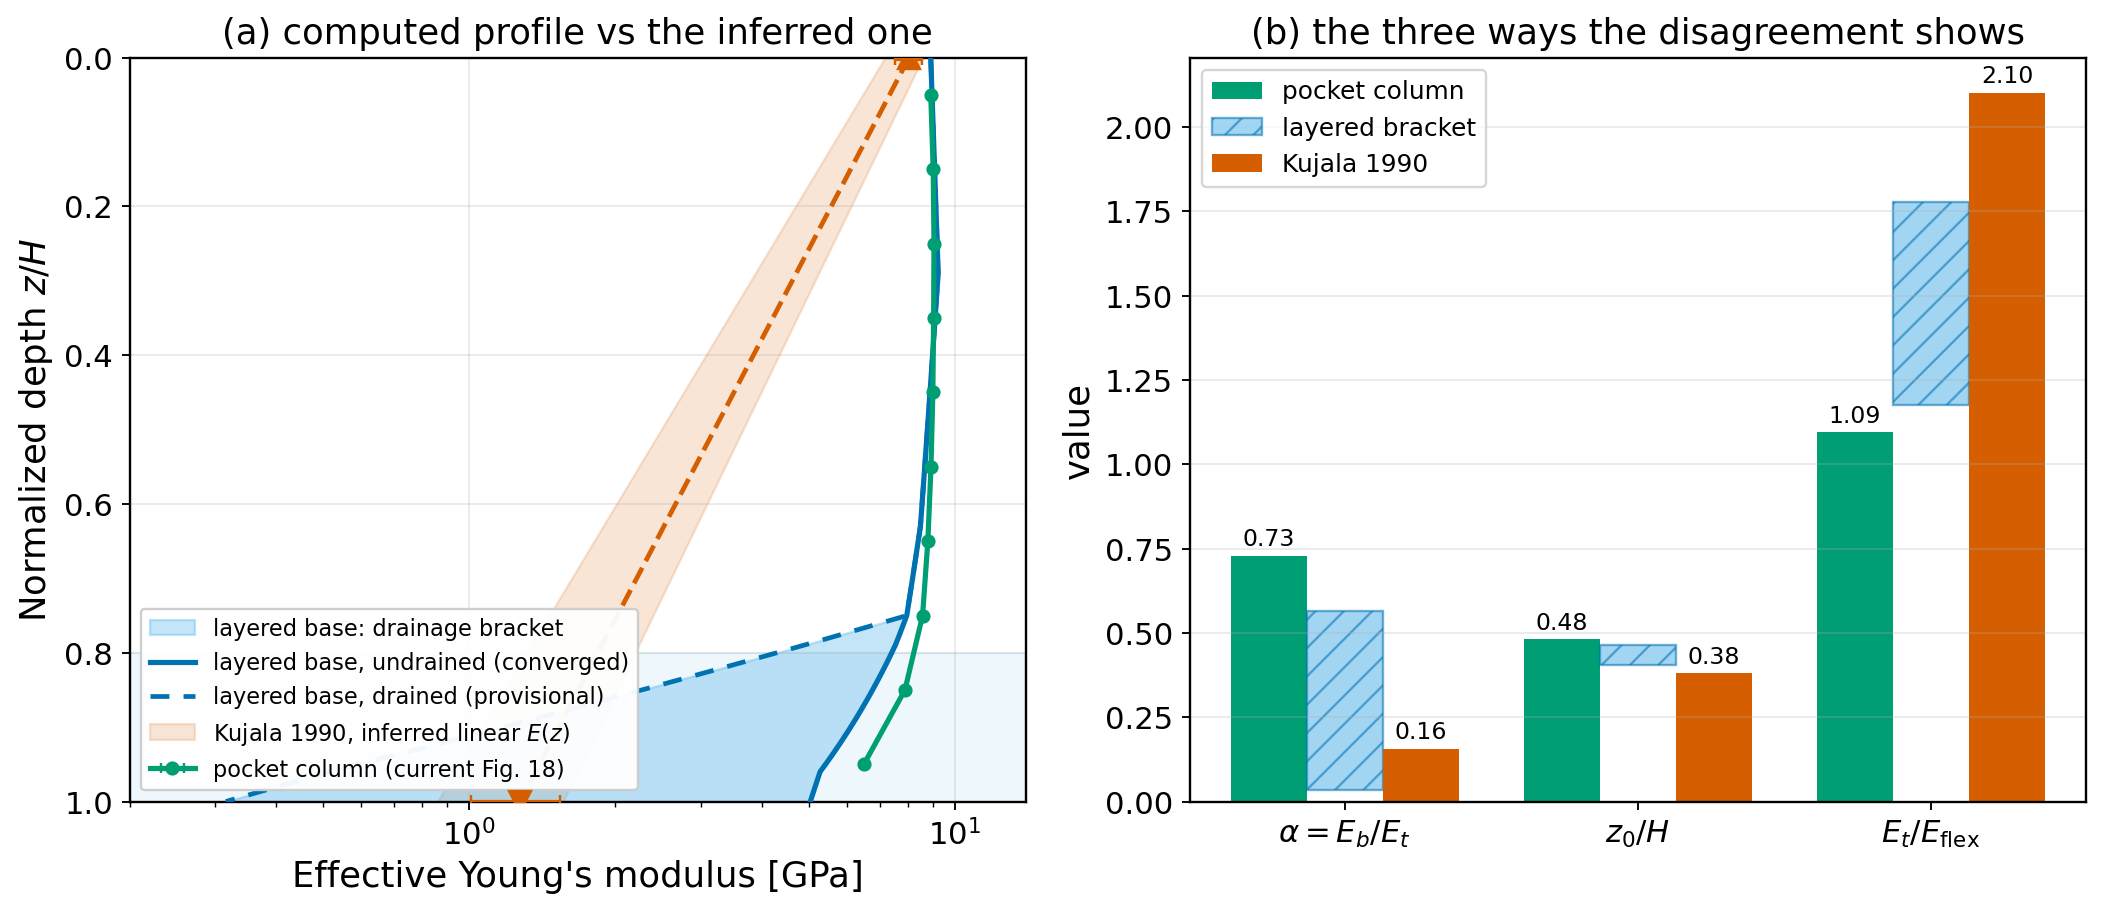
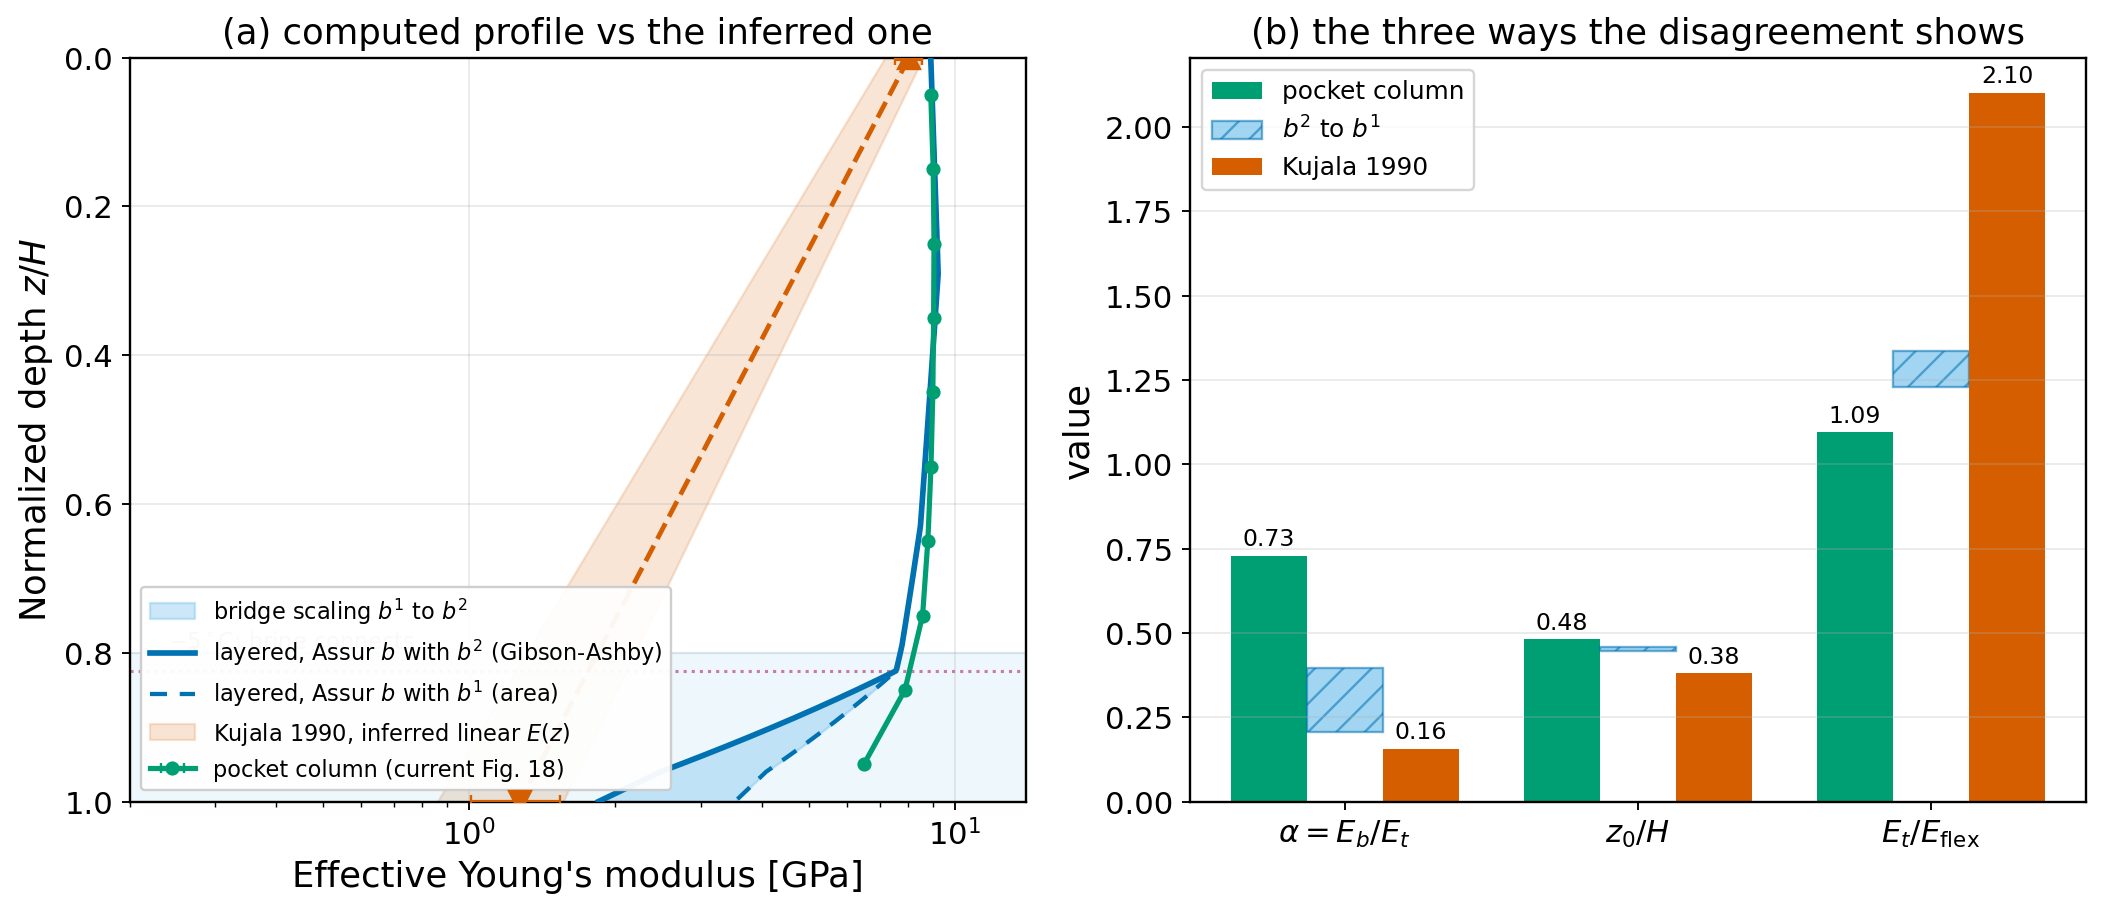
Adopt Assur b with Gibson-Ashby b^2 as the layered closure
E_layer(phi) = E_pocket(phi) * (1 - sqrt(phi))^2

Both factors are external to the moduli being predicted. b is Assur's
load-bearing area, the plane-of-weakness geometry the field correlations'
sqrt(v) descends from. The exponent is Gibson and Ashby's open-cell scaling: a
plane held together by slender ice ligaments between brine pockets is an
open-cell structure, and such a structure goes as the square of relative
density when the ligaments carry load by bending. The switch depth is external
too -- brine connects above about -5 C (Light et al. 2003), so the thermal
profile places it at z/H = 0.824 rather than anyone choosing a knee.

Against Kujala, with nothing fitted:

              alpha    z0/H   Et/Eflex
  pocket      0.728   0.481      1.095
  b^2         0.207   0.446      1.335
  b^1         0.395   0.459      1.228
  Kujala      0.157   0.380      2.101

alpha comes out at 0.207 against 0.157, where the pocket column gave 0.728.
The other two move the right way and do not arrive, which is the same shape
problem as before: a soft base cannot fix quantities weighted by (z-z0)^2.

The exponent is ASSERTED, not measured, and the record says so. Our cells
suggest b^0.85 -- but they carry two large bridges, and a fat disc carries
load by stretching, for which b^1 is right. Real skeletal ice has a dense
network of thin ligaments, the bending geometry b^2 describes, which no
affordable mesh resolves. rve_bracket_nbridges falsifies or supports that
[…]

diff --git a/analysis/plot_kujala_layered.py b/analysis/plot_kujala_layered.py
@@ -7,11 +7,19 @@ seen three ways: the base modulus, the grading parameter alpha and the neutral
 plane all fail together because the computed profile is too flat. So the test of
 the layered zone has to be made on all three, not on the base modulus alone.
 
-The drained edge of the bracket is drawn HATCHED and labelled provisional. At
-fixed plate spacing the drained cell's transverse modulus still falls with cell
-size as n^-1.14, so it is not yet a converged material property; the campaign
-that aligns bridges between layers is running and decides it. The undrained
-edge passed the same test at CV 0.9% and is drawn solid.
+Both inputs to the layered branch are external. The bridge fraction is Assur's
+load-bearing area, b = 1 - sqrt(phi); the exponent is Gibson and Ashby's
+open-cell b^2, on the grounds that a plane held together by slender ice
+ligaments carries load by bending. The b^1 curve is drawn alongside as the
+stretch-dominated alternative, so the band is the span between two named
+mechanisms rather than a fitted range. The switch depth is derived too: brine
+connects above about -5 C (Light et al. 2003), so the thermal profile places it
+at z/H = 0.82 rather than anyone choosing a knee.
+
+The b^2 exponent is asserted, not measured: our cells carry two large bridges
+and suggest b^0.85, which is what a fat stretch-dominated disc should give.
+rve_bracket_nbridges tests the bending reading directly by subdividing a fixed
+bridge area.
 
 Run from results/:  python3 ../analysis/plot_kujala_layered.py
 """
@@ -29,14 +37,16 @@ import figstyle as fs
 fs.apply()
 import matplotlib.pyplot as plt
 
-from gogolaze_layered import pocket, layered, blend
+from layered_law import pocket, layered, column, switch_depth
 
 K_TOP = np.array([7.18, 8.16, 8.25, 8.60])
 K_BOT = np.array([0.86, 1.25, 1.56, 1.42])
 K_Z0 = np.array([0.37, 0.38, 0.39, 0.38])
 K_EFF_MEAN, K_EFF_SD = 4.1, 0.5
 
-LAYER_TOP = 0.75          # where percolation switches the morphology over
+# The switch depth is DERIVED, not chosen: brine connects above about -5 C
+# (Light et al. 2003), so the thermal profile fixes it.
+LAYER_TOP = switch_depth(-20.0, -1.8)
 
 
 def load(path, col='E_eff'):
@@ -72,21 +82,25 @@ def main():
     Ep = np.interp(zf, zc, m)
     phi = np.interp(zf, [0, .29, .63, .79, .96, 1.0],
                     [0.104, 0.086, 0.128, 0.168, 0.227, 0.227])
-    w = np.clip((zf - LAYER_TOP) / (1.0 - LAYER_TOP), 0.0, 1.0)
-    # scale the blended layered profile so its cold end matches this column
-    Edr = blend(w, phi, True) * (Ep[0] / pocket(phi)[0])
-    Eun = blend(w, phi, False) * (Ep[0] / pocket(phi)[0])
+    # Adopted closure: Assur's load-bearing area with Gibson-Ashby bending.
+    # Scaled so the cold end matches this column's own pocket cells.
+    k = Ep[0] / pocket(phi)[0]
+    E_ga = column(zf, phi, exponent=2.0) * k
+    E_ar = column(zf, phi, exponent=1.0) * k
 
     fig, ax = plt.subplots(1, 2, figsize=(12.6, 5.6))
 
     # ---- (a) profiles ----------------------------------------------------
     a = ax[0]
-    a.fill_betweenx(zf, Edr, Eun, color=fs.SKY, alpha=0.35, zorder=1,
-                    label='layered base: drainage bracket')
-    a.plot(Eun, zf, color=fs.BLUE, lw=2.2, zorder=3,
-           label='layered base, undrained (converged)')
-    a.plot(Edr, zf, color=fs.BLUE, lw=2.0, ls=(0, (4, 3)), zorder=3,
-           label='layered base, drained (provisional)')
+    a.fill_betweenx(zf, E_ga, E_ar, color=fs.SKY, alpha=0.30, zorder=1,
+                    label='bridge scaling $b^{1}$ to $b^{2}$')
+    a.plot(E_ga, zf, color=fs.BLUE, lw=2.4, zorder=3,
+           label=r'layered, Assur $b$ with $b^2$ (Gibson-Ashby)')
+    a.plot(E_ar, zf, color=fs.BLUE, lw=1.8, ls=(0, (4, 3)), zorder=3,
+           label=r'layered, Assur $b$ with $b^1$ (area)')
+    a.axhline(LAYER_TOP, color=fs.PURPLE, lw=1.3, ls=':', zorder=2)
+    a.text(0.24, LAYER_TOP - 0.03, r'$-5^\circ$C: brine connects',
+           fontsize=9.5, color=fs.PURPLE)
     a.errorbar(m, zc, xerr=s, marker='o', ms=5, capsize=2, color=fs.GREEN,
                zorder=4, label='pocket column (current Fig. 18)')
 
@@ -115,7 +129,7 @@ def main():
     theirs = [at_k, float(K_Z0.mean()),
               3 * (1 + at_k) / (at_k ** 2 + 4 * at_k + 1)]
     pk = metrics(np.interp(zf, zc, m))
-    dr, un = metrics(Edr), metrics(Eun)
+    dr, un = metrics(E_ga), metrics(E_ar)
 
     labels = [r'$\alpha=E_b/E_t$', r'$z_0/H$', r'$E_t/E_{\rm flex}$']
     x = np.arange(3)
@@ -125,7 +139,7 @@ def main():
         lo, hi = min(dr[i], un[i]), max(dr[i], un[i])
         b.bar(x[i], hi - lo, bw, bottom=lo, color=fs.SKY, alpha=0.55,
               hatch='//', edgecolor=fs.BLUE,
-              label='layered bracket' if i == 0 else None)
+              label=r'$b^2$ to $b^1$' if i == 0 else None)
     b.bar(x + bw, theirs, bw, color=fs.VERM, label='Kujala 1990')
     b.set_xticks(x); b.set_xticklabels(labels, fontsize=13)
     b.set_ylabel('value')
@@ -142,8 +156,8 @@ def main():
     fig.savefig(out, dpi=170)
     print('wrote %s' % out)
     print('  pocket   alpha %.3f  z0/H %.3f  Et/Eflex %.3f' % tuple(pk))
-    print('  drained  alpha %.3f  z0/H %.3f  Et/Eflex %.3f' % tuple(dr))
-    print('  undrained alpha %.3f  z0/H %.3f  Et/Eflex %.3f' % tuple(un))
+    print('  b^2      alpha %.3f  z0/H %.3f  Et/Eflex %.3f' % tuple(dr))
+    print('  b^1      alpha %.3f  z0/H %.3f  Et/Eflex %.3f' % tuple(un))
     print('  Kujala   alpha %.3f  z0/H %.3f  Et/Eflex %.3f' % tuple(theirs))
 
 

diff --git a/analysis/layered_law.py b/analysis/layered_law.py
@@ -1,0 +1,90 @@
+r"""The adopted closure for a bridged brine layer, with every input external.
+
+    E_layer(phi) = E_pocket(phi) * b(phi)^2,   b(phi) = 1 - sqrt(phi)
+
+Both factors come from outside the moduli being predicted.
+
+b(phi) is Assur's load-bearing area fraction, the plane-of-weakness geometry
+from which the sea-ice literature's sqrt(v) laws descend. It is not fitted here
+and it is not free: given the brine fraction, the fraction of the lamellar plane
+still carrying ice follows.
+
+The exponent 2 is Gibson and Ashby's open-cell scaling. A plane held together by
+slender ice ligaments between brine pockets is an open-cell structure, and such
+a structure's modulus goes as the square of relative density whenever the
+ligaments carry load by BENDING rather than by stretching. Slender ligaments
+bend; that is the whole content of the assumption.
+
+WHAT IS ASSERTED RATHER THAN MEASURED, stated plainly because it matters. Our
+own cells suggest an exponent near 0.85, not 2. That is not evidence against
+Gibson and Ashby: the cells carry TWO LARGE circular bridges, and a fat disc
+carries load by stretching, for which the area scaling b^1 is correct. Real
+skeletal ice has a dense network of thin ligaments, which is the bending-
+dominated geometry b^2 describes and which the cells do not resolve at any mesh
+we can afford. Adopting b^2 is therefore a sub-grid closure, and it makes a
+falsifiable prediction: holding b fixed and SUBDIVIDING it over more, thinner
+bridges should drive the measured exponent up from 1 toward 2. If it does not,
+the bending interpretation is wrong and this closure should be withdrawn.
+
+The morphology switch is also external. Light, Maykut and Grenfell observed
+brine becoming connected above about -5 C, so a stated thermal profile fixes
+the depth at which layers replace pockets; it is not chosen to place a knee.
+"""
+import numpy as np
+
+E_ICE = 9.37
+T_MORPH = -5.0          # Light et al. 2003: brine connects above roughly this
+PHI_C = 0.05            # Golden et al. 1998, rule of fives
+
+
+def pocket(phi):
+    """Knockdown for isolated pockets, R^2 = 0.999 over the column cells."""
+    return E_ICE * (1.0 - 1.65 * np.asarray(phi, dtype=float))
+
+
+def assur_b(phi):
+    """Load-bearing area fraction left in the plane of weakness."""
+    return np.clip(1.0 - np.sqrt(np.clip(phi, 0.0, 1.0)), 1e-6, 1.0)
+
+
+def layered(phi, exponent=2.0):
+    """Transverse modulus of a bridged layer, drained."""
+    return pocket(phi) * assur_b(phi) ** exponent
+
+
+def switch_depth(T_surf=-20.0, T_base=-1.8, T_morph=T_MORPH):
+    """Depth at which the morphology changes, from the thermal profile alone."""
+    if not (min(T_surf, T_base) <= T_morph <= max(T_surf, T_base)):
+        return 1.0                       # never reached within the sheet
+    return (T_morph - T_surf) / (T_base - T_surf)
+
+
+def column(z, phi, T_surf=-20.0, T_base=-1.8, exponent=2.0, sharpness=1.0):
+    """E(z) with pockets above the morphology switch and layers below.
+
+    The blend is linear in depth across the layered zone rather than a step:
+    both the porosity and the connectivity vary continuously through the
+    interval where the temperature runs from T_morph to the freezing point.
+    """
+    z = np.asarray(z, dtype=float)
+    zs = switch_depth(T_surf, T_base)
+    if zs >= 1.0:
+        return pocket(phi)
+    w = np.clip((z - zs) / max(1.0 - zs, 1e-9), 0.0, 1.0) ** sharpness
+    Ep, El = pocket(phi), layered(phi, exponent)
+    return np.exp((1.0 - w) * np.log(Ep) + w * np.log(np.maximum(El, 1e-9)))
+
+
+def drained_here(phi):
+    """Permeable ice drains far faster than a flexural test lasts."""
+    return np.asarray(phi, dtype=float) > PHI_C
+
+
+if __name__ == '__main__':
+    print('adopted closure: E = E_pocket(phi) * (1 - sqrt(phi))^2')
+    print('%8s %9s %11s %11s' % ('phi', 'Assur b', 'pocket', 'layered'))
+    for p in (0.05, 0.10, 0.15, 0.20, 0.227, 0.30):
+        print('%8.3f %9.3f %11.3f %11.3f'
+              % (p, assur_b(p), pocket(p), layered(p)))
+    print('\nmorphology switch at z/H = %.3f for a -20 to -1.8 C profile'
+          % switch_depth())

diff --git a/analysis/make_bracket_decks.py b/analysis/make_bracket_decks.py
@@ -175,6 +175,40 @@ def build_correlated():
     return rows
 
 
+def build_nbridges():
+    """Subdivide a fixed bridge area: the test of the bending interpretation.
+
+    Adopting Gibson and Ashby's b^2 asserts that the load path through a
+    lamellar plane is a network of slender ligaments carrying load by bending.
+    That is a claim about geometry and it can be falsified without measuring an
+    exponent at all. Hold the TOTAL bridge area fixed and split it over more,
+    thinner bridges:
+
+      pure area or stretch  -> only the total section matters, E is unchanged
+      bending-dominated     -> slender ligaments bend, E falls as they thin
+
+    So E falling with bridge count at fixed b is the signature of bending, and
+    E flat is the signature that our cells are stretch-dominated and the b^2
+    closure does not describe them. Either way the cells stop being a black box.
+
+    b = 0.15 rather than 0.03, so sixteen bridges are still resolvable: at that
+    count the radius is 0.027 against a fine element size of 0.0096, about
+    three elements per radius.
+    """
+    rows = []
+    phi, b = 0.15, 0.15
+    for nb in (1, 2, 4, 8, 16):
+        for tag, K in (('drn', K_DRN), ('und', K_UND)):
+            for s in SEEDS:
+                r = row('BRKG_n%02d_%s_s%d' % (nb, tag, s),
+                        phi, K, True, 0.024).split(',')
+                r[36] = '4'                # physical plate spacing
+                r[38] = '%.4f' % b
+                r[39] = str(nb)            # n_bridges
+                rows.append(','.join(r))
+    return rows
+
+
 def build_bridge():
     """Drained bridge-fraction sweep: the exponent that decides the mechanism.
 
@@ -213,6 +247,14 @@ def build_bridge():
 def main():
     root = os.path.dirname(os.path.dirname(os.path.abspath(__file__)))
     out = sys.argv[1] if len(sys.argv) > 1 else os.path.join(root, 'params')
+
+    rows = build_nbridges()
+    p = os.path.join(out, 'rve_bracket_nbridges.csv')
+    with open(p, 'w') as f:
+        f.write(HDR + '\n')
+        for r in rows:
+            f.write(r + '\n')
+    print('wrote %s : %d cells (%d solves)' % (p, len(rows), 2 * len(rows)))
 
     rows = build_correlated()
     p = os.path.join(out, 'rve_bracket_corr.csv')
